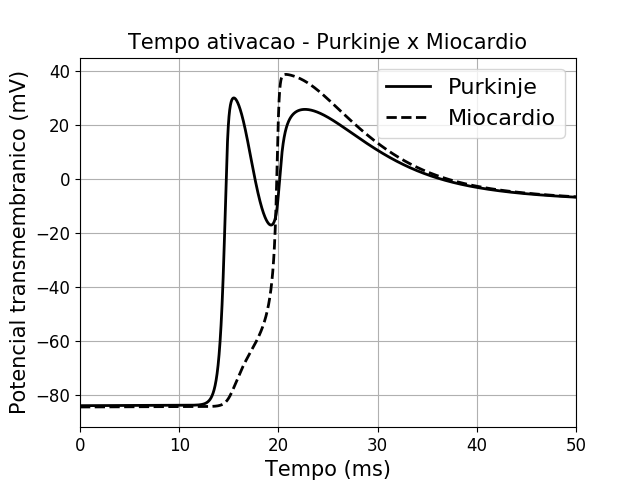
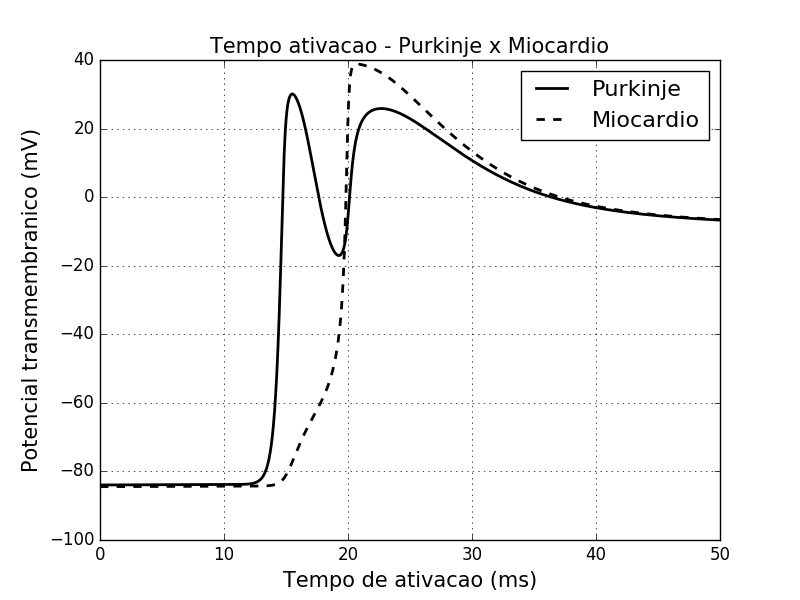
Cleaning up

diff --git a/Mesh_Generator/src/mesh.cpp b/Mesh_Generator/src/mesh.cpp
@@ -75,27 +75,29 @@ void GraphToMesh (Mesh *mesh, Graph *g)
     mesh->map_graph_elem = (int*)calloc(N,sizeof(int));
     // Construir o nodo 0 primeiro
     Node *ptr = g->listNodes;
-    Point point; point.x = ptr->x; point.y = ptr->y; point.z = ptr->z;
+    Point point; point.x = ptr->x; point.y = ptr->y; point.z = ptr->z; point.d = D;
     mesh->points.push_back(point);
     // Busca em profundidade
-    DFS(mesh,ptr);
+    DFS(mesh,ptr,0);
 }
 
 // Busca em profundidade
-void DFS (Mesh *mesh, Node *u)
+void DFS (Mesh *mesh, Node *u, int lvl)
 {
+    double d = D - ALPHA*D*lvl;
+    //printf("Node %d || Level %d || Diameter %lf\n",u->id,lvl,d);
     Edge *v = u->edges;
     while (v != NULL)
     {
-        growSegment(mesh,u,v);
-        DFS(mesh,v->dest);
+        growSegment(mesh,u,v,d);
+        DFS(mesh,v->dest,lvl+1);
         v = v->next;
     }
     mesh->nPoints = mesh->points.size();
     mesh->nElem = mesh->elements.size();
 }
 
-void growSegment (Mesh *mesh, Node *u, Edge *v)
+void growSegment (Mesh *mesh, Node *u, Edge *v, double diam)
 {
     double d_ori[3], d[3];
     double w = v->w;
@@ -109,7 +111,7 @@ void growSegment (Mesh *mesh, Node *u, Edge *v)
     {
         double x, y, z;
         x = d[0] + d_ori[0]*mesh->h*k; y = d[1] + d_ori[1]*mesh->h*k; z = d[2] + d_ori[2]*mesh->h*k;
-        Point point; point.x = x; point.y = y; point.z = z;
+        Point point; point.x = x; point.y = y; point.z = z; point.d = diam;
         mesh->points.push_back(point);
         Element elem; elem.left = id_source; elem.right = mesh->points.size()-1;
         mesh->elements.push_back(elem);
@@ -164,7 +166,15 @@ void writeMeshToFile (Mesh *mesh, char *filename)
         if (!file) printf("[-] ERROR! Opening file '%s'\n",filename);
         fprintf(file,"%d %d %lf\n",mesh->nElem,mesh->nPoints,mesh->h);
         for (int i = 0; i < mesh->nPoints; i++)
+        {
+            // Malha com a informacao adicional do diametro nos pontos
+            #ifdef DIAMETER
+            fprintf(file,"%lf %lf %lf %lf\n",mesh->points[i].x,mesh->points[i].y,mesh->points[i].z,mesh->points[i].d);
+            // Malha padrao so com a informacao das coordenadas dos pontos
+            #else
             fprintf(file,"%lf %lf %lf\n",mesh->points[i].x,mesh->points[i].y,mesh->points[i].z);
+            #endif
+        }
         for (int i = 0; i < mesh->nElem; i++)
             fprintf(file,"%d %d\n",mesh->elements[i].left,mesh->elements[i].right);
         fclose(file);

diff --git a/Mesh_Generator/include/mesh.h b/Mesh_Generator/include/mesh.h
@@ -15,6 +15,12 @@ struct Mesh;
 struct Point;
 struct Element;
 
+// Porcentagem de reducao do diametro
+const double ALPHA = 0.2;      
+
+// Diametro inicial da celula de Purkinje 
+const double D = 0.003;                         
+
 // Tamanho de uma celula de Purkinje
 const double PIG_DX = 0.0068;	                      // T. Stankovičová, 2003 (cm) -- Pig Purkinje cell
 const double DOG_DX = 0.0164;                         // Michael F. Sheets (1983)   -- Dog Purkinje cell
@@ -31,6 +37,7 @@ const double TEST6_DX = 0.0200;
 struct Point
 {
     double x, y, z;                 // Coordenadas do ponto
+    double d;                    // Diametro 
 }typedef Point;
 
 struct Element
@@ -59,5 +66,5 @@ void writeLevelToFile (Mesh *mesh, Graph *g);
 void writeMeshInfo (Mesh *mesh);
 void printMeshInfo (Mesh *mesh);
 void changeExtension (char *filename);
-void DFS (Mesh *mesh, Node *u);
-void growSegment (Mesh *mesh, Node *u, Edge *v);
+void DFS (Mesh *mesh, Node *u, int lvl);
+void growSegment (Mesh *mesh, Node *u, Edge *v, double diam);

diff --git a/Other_Codes/Figure-Maker/delayPlot.py b/Other_Codes/Figure-Maker/delayPlot.py
@@ -18,7 +18,7 @@ def plotDelay ():
 	pyplot.tick_params(labelsize=12)
 	pyplot.xlim([0,50])
 	pyplot.title("Tempo ativacao - Purkinje x Miocardio",size=15)
-	pyplot.xlabel("Tempo (ms)", size=15)
+	pyplot.xlabel("Tempo de ativacao (ms)", size=15)
 	pyplot.ylabel("Potencial transmembranico (mV)", size=15)
 	pyplot.legend(loc=0,prop={'size': 16})
 	pyplot.savefig("delay-Noble.png")
